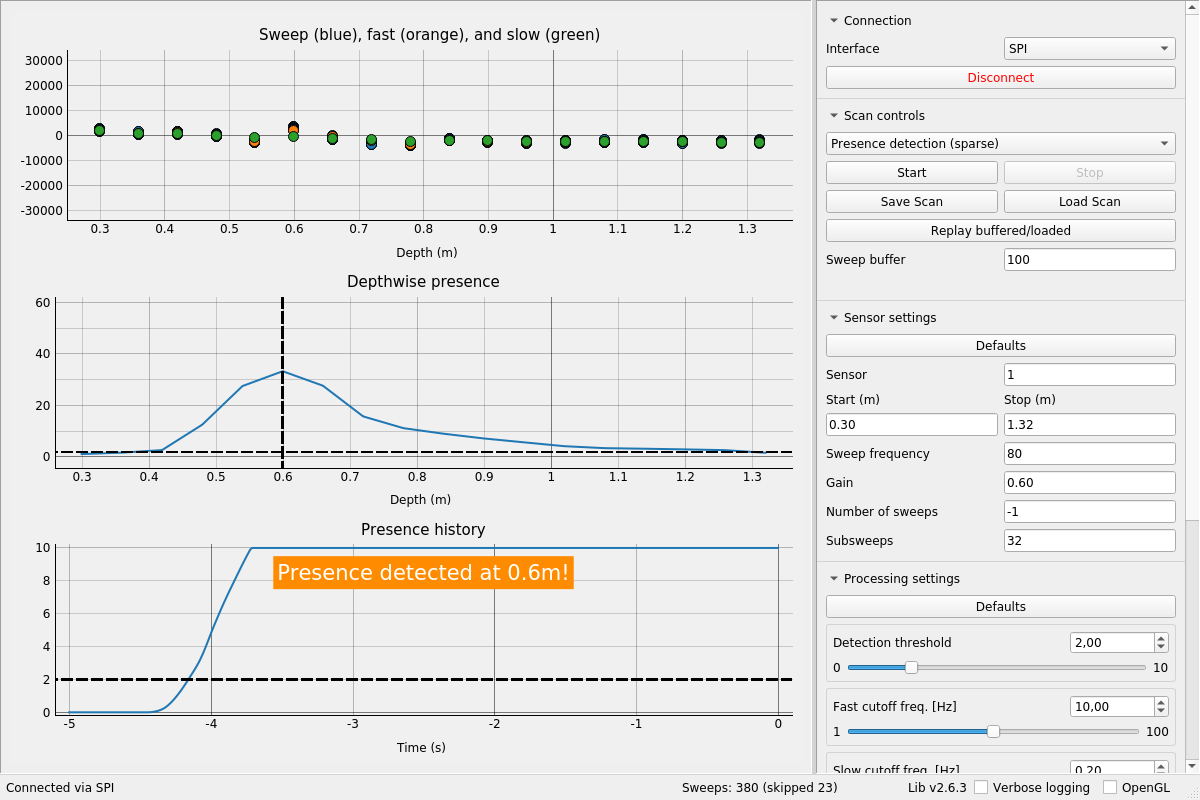
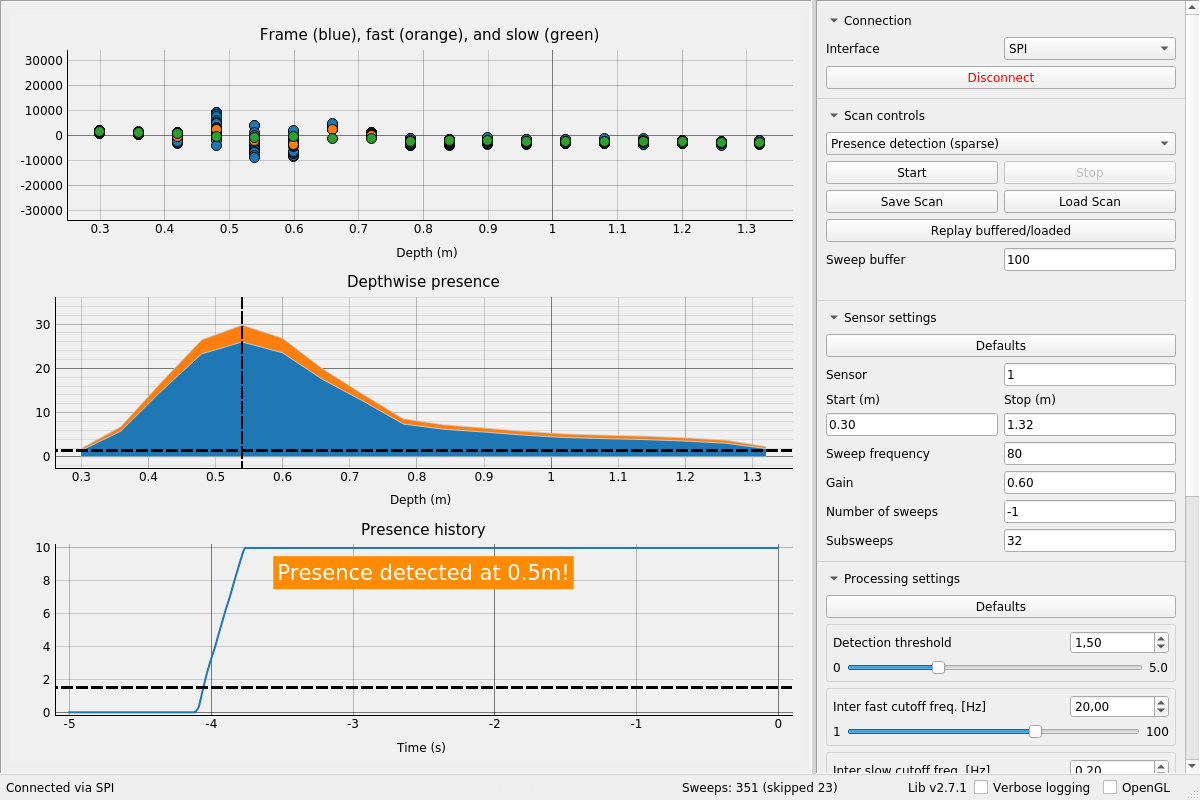
Update docs with intra-frame sparse presence

diff --git a/docs/processing/presence_detection_sparse.rst b/docs/processing/presence_detection_sparse.rst
@@ -6,72 +6,189 @@ Presence detection (sparse)
 .. warning::
    The nomenclature currently differs between the Acconeer SDK and Exploration tool due to backwards compatibility reasons. In the Exploration code base, **frames** are referred to as **sweeps** and **sweeps** are referred to as **subsweeps**. Using frames and sweep is preferred, and will switched to in Exploration v3. Throughout this guide, we use the preferred nomenclature.
 
-A presence detection algorithm built on top of the :ref:`sparse-service` service - based on measuring changes in the radar response over time.
+This is a presence detection algorithm built on top of the :ref:`sparse-service` service -- based on measuring changes in the radar response over time. The algorithm has two main parts which are weighed together:
 
-The :ref:`sparse-service` service returns data frames in the form of :math:`N_s` sweeps, each consisting of :math:`N_d` range depth points, normally spaced roughly 6 cm apart. We denote frames captured using the sparse service as :math:`x(f,s,d)`, where :math:`f` denotes the frame index, :math:`s` the sweep index and :math:`d` the range depth index. As described in the documentation of the :ref:`sparse-service` service, small movements within the field of view of the radar appear as sinusoidal movements of the sampling points over time. Thus, for each range depth point, we wish to detect changes between individual point samples occurring in the :math:`f` and :math:`s` dimensions.
+Inter-frame deviation -- detecting (slower) movements *between* frames
+   For every frame and depth, we take the *mean sweep* and feed it through a fast and a slow low pass filter.
+   The inter-frame deviation is based on the deviation between the two filters.
 
-This presence detection algorithm achieves this by depthwise looking at the deviation between a fast and a slow low pass filtered version of the signal. This deviation is then filtered again both in time and depth. To be more robust against changing environments and variations between sensors, a normalization is done against the noise floor.
+Intra-frame deviation -- detecting (faster) movements *inside* frames
+   For every frame and depth, the intra-frame devition is based on the deviation from the mean of the sweeps.
+
+Both the inter- and the intra-frame deviations are filtered both in time and depth. Also, to be more robust against changing environments and variations between sensors, a normalization is done against the noise floor. Finally, some simple processing is applied to generate the final output.
 
 Plots
 -----
 
-.. image:: /_static/processing/sparse_presence.png
+.. figure:: /_static/processing/sparse_presence.png
+    :align: center
 
-The above image shows a screenshot of the detector plots. In it, we can a target detected at around 0.5 m.
+    A screenshot of the plots. In it, we can see a target detected at around 0.5 m.
 
 **Top plot:**
-The frame :math:`x` (blue dots), along with the fast (orange) and slow (green) filtered sweep mean
+The frame :math:`x` (blue) along with the fast (orange) and slow (green) filtered mean sweep
 :math:`\bar{y}_\text{fast}` and :math:`\bar{y}_\text{slow}` respectively.
-The distance between the fast (orange) and slow (green) dots is the basis for this detector.
+The distance between the fast (orange) and slow (green) dots is the basis of the inter-frame part,
+and the spread of the sweeps (blue) is the basis of the intra-frame part.
 
 **Middle plot:**
-The "depthwise presence" :math:`z`. This signal is the time and depth filtered (and noise normalized) version of the distance between the fast and slow filter.
+The "depthwise presence" :math:`z`.
+This signal is the time filtered, depth filtered, and normalized version of the weighted sum of the inter- and intra-frame parts. The blue and orange parts show the inter- and intra-frame contributions respectively.
 
 **Bottom plot:**
-The detector output :math:`\bar{v}`. Typically limited to give a clearer view. This is basically a time filtered maximum of the above plot.
+The detector output :math:`\bar{v}`.
+This is obtained from taking the maximum in the above plot and low pass filtering it.
+The plot is limited to give a clearer view.
 
 **Not shown:** The noise estimation :math:`\bar{n}`, used for normalization of the signal.
+
+How to use
+----------
+
+Tuning the detector parameters
+^^^^^^^^^^^^^^^^^^^^^^^^^^^^^^
+
+As previously mentioned, the inter-frame part is good at detecting *slower* movements, and the intra-frame part is good at detecting *faster* movements. By slower movements we mean, for example, a person sitting in a chair or sofa. Faster movements could be a person walking or waving their hand.
+
+By default, the detector is configured such that both faster and slower movements are detected.
+This means that both the inter- and intra-frame parts are used. We recommend this as a starting point.
+
+.. tip::
+   The overall sensitivity can be adjusted with the
+   :attr:`~examples.processing.presence_detection_sparse.ProcessingConfiguration.detection_threshold`
+   parameter.
+   If the detection toggles too often, try increasing the
+   :attr:`~examples.processing.presence_detection_sparse.ProcessingConfiguration.output_time_const`
+   parameter. If it is too sluggish, try decreasing it instead.
+   The effects of these two parameters can be clearly seen in the bottom plot (detector output).
+
+The other parameters are best described by example:
+
+Fast motions - looking for a person walking towards or away from the sensor
+   Disable the inter-frame part by setting the
+   :attr:`~examples.processing.presence_detection_sparse.ProcessingConfiguration.intra_frame_weight`
+   to 1.
+
+   The intra-frame part has one parameter - its filter time constant
+   :attr:`~examples.processing.presence_detection_sparse.ProcessingConfiguration.intra_frame_time_const`.
+   Look at the depthwise presence (middle plot). If it can't keep up with the movements, try decreasing the time constant. Instead, if it's too flickery, try increasing the time constant.
+   This will also be seen in the presence distance.
+
+   Since the inter-frame part is disabled, inter-frame parameters have no effect.
+
+Slow motions - looking for a person resting in a sofa
+   Disable the intra-frame part by setting the
+   :attr:`~examples.processing.presence_detection_sparse.ProcessingConfiguration.intra_frame_weight`
+   to 0.
+
+   The inter-frame part has a couple of parameters:
+
+   :attr:`~examples.processing.presence_detection_sparse.ProcessingConfiguration.inter_frame_fast_cutoff`
+      If too low, some (too fast) motions might not be detected.
+      If too high, unnecessary noise might be entered into the detector.
+
+      Values larger than half the :ref:`frame rate <sparse-param-frame-rate>` disables this filter.
+      If that is not enough, you need a higher :ref:`frame rates <sparse-param-frame-rate>` or use intra-frame part.
+
+   :attr:`~examples.processing.presence_detection_sparse.ProcessingConfiguration.inter_frame_slow_cutoff`
+      If too high, some (too slow) motions might not be detected.
+      If too low, unnecessary noise might be entered into the detector, and changes to the static environment takes a long time to adjust to.
+
+   :attr:`~examples.processing.presence_detection_sparse.ProcessingConfiguration.inter_frame_deviation_time_const`
+      This behaves in the same way as the intra-frame time constant
+      :attr:`~examples.processing.presence_detection_sparse.ProcessingConfiguration.intra_frame_time_const`.
+
+      Look at the depthwise presence (middle plot). If it can't keep up with movements changing depth, try decreasing the time constant. Instead, if it's too flickery, try increasing the time constant.
+
+   Since the intra-frame part is disabled, the
+   :attr:`~examples.processing.presence_detection_sparse.ProcessingConfiguration.intra_frame_time_const`
+   has no effect.
+
+Tuning the service parameters
+^^^^^^^^^^^^^^^^^^^^^^^^^^^^^
+
+Always start by setting the
+:ref:`range <sparse-param-range>`
+to the desired interval. This is important, since other parameters depend on this.
+
+The :ref:`frame rate <sparse-param-frame-rate>` should high enough to keep up with faster motions.
+However, doing so will increase the duty cycle and therefore the power consumption of the system.
+
+The :ref:`sweeps per frame <sparse-param-sweeps-per-frame>` should also in most cases be set as high as possible, but **after** the frame rate is set. This will also increase the duty cycle and power consumption of the system.
+
+If you want to distinguish depths with presence from those with no presence, set the
+:ref:`sampling mode <sparse-param-sampling-mode>`
+to A, otherwise keep it at B (the default) for maximum SNR.
+
+Limiting the :ref:`sweep rate <sparse-param-sweep-rate>`
+or decreasing :ref:`HWAAS <sparse-param-hwaas>`
+is not recommend.
 
 Detailed description
 --------------------
 
+The :ref:`sparse-service` service returns data frames in the form of :math:`N_s` sweeps, each consisting of :math:`N_d` range depth points, normally spaced roughly 6 cm apart. We denote frames captured using the sparse service as :math:`x(f,s,d)`, where :math:`f` denotes the frame index, :math:`s` the sweep index and :math:`d` the range depth index. As described in the documentation of the :ref:`sparse-service` service, small movements within the field of view of the radar appear as sinusoidal movements of the sampling points over time. Thus, for each range depth point, we wish to detect changes between individual point samples occurring in the :math:`f` and :math:`s` dimensions.
+
 Inter-frame detection basis
 ^^^^^^^^^^^^^^^^^^^^^^^^^^^
 
-In the typical case, the time between *frames* is far greater than the time between *sweeps*. Typically, the frame rate is 5 - 100 Hz while the sweep rate is 3 - 30 kHz. Therefore, when looking for slow movements - presence - the sweeps in a frame can be regarded as being sampled at the same point in time. This allows us to take the mean over all sweeps in a frame without loosing any information. Let the *mean sweep* be denoted as
+In the typical case, the time between *frames* is far greater than the time between *sweeps*. Typically, the frame rate is 2 - 100 Hz while the sweep rate is 3 - 30 kHz. Therefore, when looking for slow movements -- presence -- the sweeps in a frame can be regarded as being sampled at the same point in time. This allows us to take the mean over all sweeps in a frame without losing any information. Let the *mean sweep* be denoted as
 
 .. math::
    y(f, d) = \frac{1}{N_s} \sum_s x(f, s, d)
 
-We take this mean sweep :math:`y` and depthwise run it though two `exponential smoothing`_ filters (first order IIR filters). One slower filter with a larger `smoothing factor`_, and one faster filter with a smaller smoothing factor. Let :math:`\alpha_\text{fast}` and :math:`\alpha_\text{slow}` be the smoothing factors and :math:`\bar{y}_\text{fast}` and :math:`\bar{y}_\text{slow}` be the filtered sweep means.
-In the implementation, the smoothing factors :math:`\alpha_\text{fast}` and :math:`\alpha_\text{slow}` are set through the
-:attr:`~examples.processing.presence_detection_sparse.ProcessingConfiguration.fast_cutoff`
-and
-:attr:`~examples.processing.presence_detection_sparse.ProcessingConfiguration.slow_cutoff`
-parameters.
-The relationship between cutoff frequency and smoothing factor is described under :ref:`calculating-smoothing-factors`.
-For every depth :math:`d`, for every new frame :math:`f`:
-
+We take this mean sweep :math:`y` and depthwise run it though two `exponential smoothing`_ filters (first order IIR low pass filters). One slower filter with a larger smoothing factor, and one faster filter with a smaller smoothing factor. Let :math:`\alpha_\text{fast}` and :math:`\alpha_\text{slow}` be the smoothing factors and :math:`\bar{y}_\text{fast}` and :math:`\bar{y}_\text{slow}` be the filtered sweep means.
+For every depth :math:`d` in every new frame :math:`f`:
 
 .. math::
    \bar{y}_\text{slow}(f, d) = \alpha_\text{slow} \cdot \bar{y}_\text{slow}(f-1, d) + (1 - \alpha_\text{slow}) \cdot y(f, d)
 
    \bar{y}_\text{fast}(f, d) = \alpha_\text{fast} \cdot \bar{y}_\text{fast}(f-1, d) + (1 - \alpha_\text{fast}) \cdot y(f, d)
 
-From the fast and slow filtered sweep means, a deviation metric :math:`s` is obtained by taking the absolute deviation between the two:
+.. note::
+   The smoothing factors :math:`\alpha_\text{fast}` and :math:`\alpha_\text{slow}` are set through the
+   :attr:`~examples.processing.presence_detection_sparse.ProcessingConfiguration.inter_frame_fast_cutoff`
+   and
+   :attr:`~examples.processing.presence_detection_sparse.ProcessingConfiguration.inter_frame_slow_cutoff`
+   parameters.
+   The relationship between cutoff frequency and smoothing factor is described under :ref:`calculating-smoothing-factors`.
+
+From the fast and slow filtered sweep means, a deviation metric :math:`s_\text{inter}` is obtained by taking the absolute deviation between the two:
 
 .. math::
-   s(f, d) = |\bar{y}_\text{fast}(f, d) - \bar{y}_\text{slow}(f, d)|
+   s_\text{inter}(f, d) = \sqrt{N_s} \cdot |\bar{y}_\text{fast}(f, d) - \bar{y}_\text{slow}(f, d)|
 
-Basically, :math:`s` relates to the instantaneous power of a bandpass filtered version of :math:`y`. This metric is then filtered again with a smoothing factor :math:`\alpha_\text{dev}`, set through the
-:attr:`~examples.processing.presence_detection_sparse.ProcessingConfiguration.deviation_tc`
+Where :math:`\sqrt{N_s}` is a normalization constant.
+In other words, :math:`s_\text{inter}` relates to the instantaneous power of a bandpass filtered version of :math:`y`. This metric is then filtered again with a smoothing factor, :math:`\alpha_\text{dev}`, set through the
+:attr:`~examples.processing.presence_detection_sparse.ProcessingConfiguration.inter_frame_deviation_time_const`
 parameter,
 to get a more stable metric:
 
 .. math::
-   \bar{s}(f, d) = \alpha_\text{dev} \cdot \bar{s}(f-1, d) + (1 - \alpha_\text{dev}) \cdot s(f, d)
+   \bar{s}_\text{inter}(f, d) = \alpha_\text{dev} \cdot \bar{s}_\text{inter}(f-1, d) + (1 - \alpha_\text{dev}) \cdot s_\text{inter}(f, d)
 
-This is the starting point of the inter-frame presence detection algorithm. In a few words - depthwise low pass filtered power of the bandpass filtered signal. But before it's used, it's favorable to normalize it with noise floor, discussed in the following section.
+This is the basis of the inter-frame presence detection. In a few words - depthwise low pass filtered power of the bandpass filtered signal. But before it's used, it's favorable to normalize it with noise floor, discussed in later sections.
+
+Intra-frame detection basis
+^^^^^^^^^^^^^^^^^^^^^^^^^^^
+
+There are cases where the motion is too fast for the inter-frame to pick up. Often, we are interested in seeing such movements as well, and this is what the intra-frame part is for. The idea is simple -- for every frame we depthwise take the deviation from the sweep mean and low pass (smoothing) filter it.
+
+Let the deviation from the be mean be:
+
+.. math::
+   s_\text{intra}(f, d) = \sqrt{\frac{N_s}{N_s - 1}} \cdot \frac{1}{N_s} \sum_s |x(f, s, d) - y(f, d)|
+
+where the first factor is a correction for the limited number of samples (sweeps).
+
+Then, let the low pass filtered (smoothened) version be:
+
+.. math::
+   \bar{s}_\text{intra}(f, d) = \alpha_\text{intra} \cdot \bar{s}_\text{intra}(f-1, d) + (1 - \alpha_\text{intra}) \cdot s_\text{intra}(f, d)
+
+The smoothing factor :math:`\alpha_\text{intra}` is set through the
+:attr:`~examples.processing.presence_detection_sparse.ProcessingConfiguration.intra_frame_time_const`
+parameter.
 
 Noise estimation
 ^^^^^^^^^^^^^^^^
@@ -109,21 +226,35 @@ And normalize such that the expectation value would be the same as if no differe
        \sum_{k=0}^{N_\text{diff}} \binom{N_\text{diff}}{k}^2
    \right]^{-1/2}
 
-Finally, apply an exponential smoothing filter with a smoothing factor :math:`\alpha_\text{noise}`, set through the
-:attr:`~examples.processing.presence_detection_sparse.ProcessingConfiguration.noise_tc`
-parameter,
-to get a more stable metric:
+Finally, apply an exponential smoothing filter with a smoothing factor :math:`\alpha_\text{noise}` to get a more stable metric:
 
 .. math::
    \bar{n}(f, d) = \alpha_\text{noise} \cdot \bar{n}(f-1, d) + (1 - \alpha_\text{noise}) \cdot n(f, d)
 
+This smoothing factor is set from a fixed time constant of 1 s.
+
 Generating the detector output
 ^^^^^^^^^^^^^^^^^^^^^^^^^^^^^^
 
-With the noise estimate :math:`\bar{n}`, we form a depthwise normalized inter-frame detection:
+We now have three signals --
+the inter-frame deviation :math:`\bar{s}_\text{inter}(f, d)`,
+the intra-frame deviation :math:`\bar{s}_\text{intra}(f, d)`,
+and the noise estimation :math:`\bar{n}(f, d)`.
+To form the depthwise output we weigh the inter and intra parts together and normalize with the noise estimation:
 
 .. math::
-   \bar{s}_n(f, d) = \frac{\bar{s}(f, d) \cdot \sqrt{N_s}}{\bar{n}(f, d)}
+   \bar{s}_n(f, d) = \frac{
+      w_\text{inter} \cdot \bar{s}_\text{inter}(f, d)
+      +
+      w_\text{intra} \cdot \bar{s}_\text{intra}(f, d)
+   }{
+      \bar{n}(f, d)
+   }
+
+The intra-frame weight :math:`w_\text{intra}` is settable through the
+:attr:`~examples.processing.presence_detection_sparse.ProcessingConfiguration.intra_frame_weight`
+parameter.
+The inter-frame weight :math:`w_\text{inter} = 1 - w_\text{intra}`.
 
 Finally, since the reflection typically span several depth points, we apply a small depth filter:
 
@@ -152,13 +283,13 @@ From :math:`z`, we can extract the information we are looking for. Is there some
 where :math:`p` is the "present"/"not present" output and :math:`d_p` is the presence depth index output.
 
 It is possible to tune :math:`\alpha_\text{output}` through the
-:attr:`~examples.processing.presence_detection_sparse.ProcessingConfiguration.output_tc`
+:attr:`~examples.processing.presence_detection_sparse.ProcessingConfiguration.output_time_const`
 parameter. The threshold :math:`v_\text{threshold}` is settable through the
-:attr:`~examples.processing.presence_detection_sparse.ProcessingConfiguration.threshold`
+:attr:`~examples.processing.presence_detection_sparse.ProcessingConfiguration.detection_threshold`
 parameter.
 
-Overview
-^^^^^^^^
+Graphical overview
+^^^^^^^^^^^^^^^^^^
 
 .. graphviz:: /graphs/presence_detection_sparse.dot
    :align: center
@@ -166,7 +297,7 @@ Overview
 .. _calculating-smoothing-factors:
 
 Calculating smoothing factors
------------------------------
+^^^^^^^^^^^^^^^^^^^^^^^^^^^^^
 
 Instead of directly setting the smoothing factor of the smoothing filters in the detector, we use cutoff frequencies and time constants. This allows the configuration to be independent of the frame rate.
 
@@ -203,11 +334,10 @@ Read more:
 `time constants <https://en.wikipedia.org/wiki/Exponential_smoothing#Time_Constant>`_,
 `cutoff frequencies <https://www.dsprelated.com/showarticle/182.php>`_.
 
-Configuration
--------------
+Configuration parameters
+------------------------
 
 .. autoclass:: examples.processing.presence_detection_sparse.ProcessingConfiguration
    :members:
 
 .. _`exponential smoothing`: https://en.wikipedia.org/wiki/Exponential_smoothing
-.. _`smoothing factor`: https://en.wikipedia.org/wiki/Exponential_smoothing

diff --git a/docs/services/sparse.rst b/docs/services/sparse.rst
@@ -58,6 +58,8 @@ If you're doing things like **gesture recognition** or any **velocity measuremen
 Configuration parameters
 ^^^^^^^^^^^^^^^^^^^^^^^^
 
+.. _sparse-param-sampling-mode:
+
 Sampling mode
    | Python: ``sampling_mode``
    | C SDK: ``acc_service_sparse_sampling_mode_[get/set]``
@@ -74,6 +76,8 @@ Sampling mode
    Mode B typically gives roughly 3 dB better SNR per unit time than mode A. However, please note
    that very short ranges of only one or a few points are suboptimal with mode B. In those cases,
    always use mode A.
+
+.. _sparse-param-range:
 
 Range
    | Python: ``range_interval`` (or ``range_start``, ``range_length``, ``range_end``)
@@ -111,6 +115,8 @@ Gain
 
    Must be a value between 0 and 1 inclusive, where 1 is the highest possible gain.
 
+.. _sparse-param-frame-rate:
+
 Update rate (frame rate)
    | Python: ``sweep_rate`` (old nomenclature)
    | C SDK: ``acc_sweep_configuration_repetition_mode_streaming_[get/set]``
@@ -130,6 +136,8 @@ Update rate (frame rate)
          \frac{1}{f_f} > N_s \cdot \frac{1}{f_s} + \text{overhead*}
 
       \* *The overhead largely depends on data frame size and data transfer speeds.*
+
+.. _sparse-param-sweep-rate:
 
 Sweep rate
    | Python: ``subsweep_rate`` (old nomenclature)
@@ -151,6 +159,8 @@ Sweep rate
    .. tip::
       If you do not need a specific sweep rate, we recommend leaving it unset.
 
+.. _sparse-param-sweeps-per-frame:
+
 Sweeps per frame
    | Python: ``number_of_subsweeps`` (old nomenclature)
    | C SDK: ``acc_service_sparse_configuration_sweeps_per_frame_[get/set]``
@@ -160,6 +170,8 @@ Sweeps per frame
    The number of sweeps per frame :math:`N_s`.
 
    Must be at least 1, and not greater than 64 when using sampling mode B.
+
+.. _sparse-param-hwaas:
 
 HWAAS - Hardware Accelerated Average Samples
    | Python: ``hw_accelerated_average_samples``
